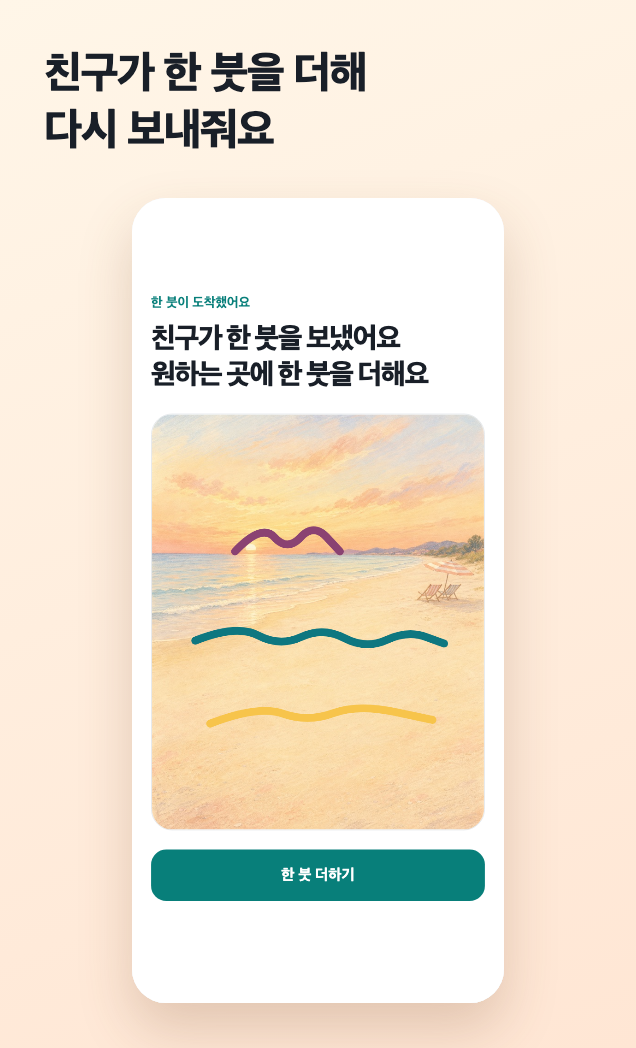
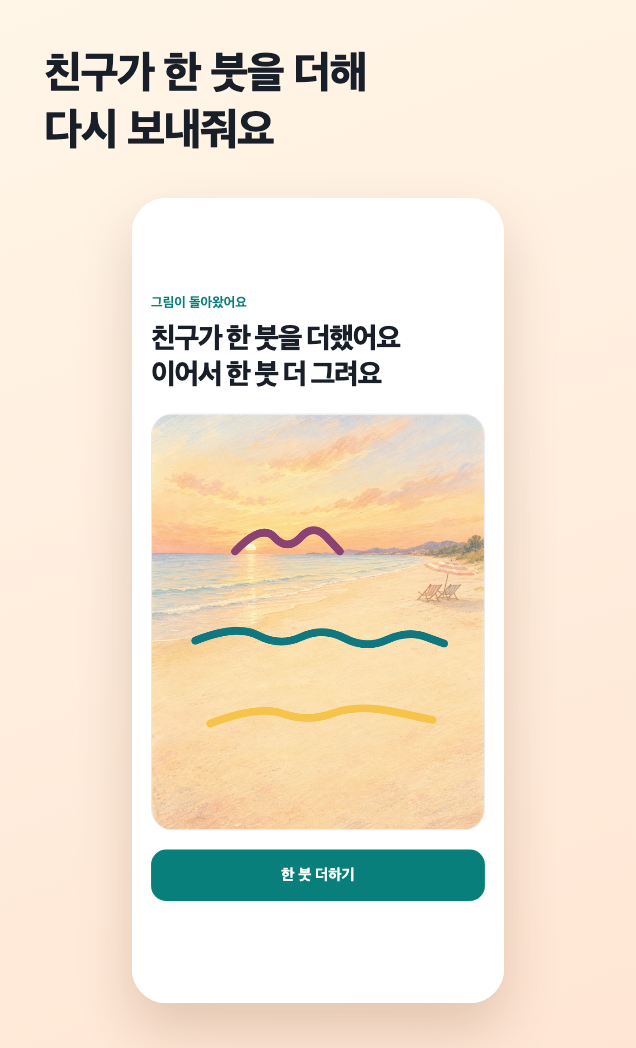
chore: verify response times and pin the third screenshot
비게임 체크리스트가 반응 2초 이상 지연을 금지한다. 미검증으로 남아
있어서 프로덕션 번들로 쟀다. 진입에서 첫 화면까지 296ms, 화면 전환
7ms, 240점을 흘리며 그리는 동안 5.9ms, 저장에서 링크 생성까지 1.9ms,
12붓짜리 1688자 링크를 여는 데 48ms다. 실기기는 더 느리므로 거기서
다시 잰다.

세 번째 스크린샷이 캡처 순서에 따라 달라지고 있었다. 두 번째 캡처가
저장소에 남긴 그림 때문에 우연히 `그림이 돌아왔어요`로 찍혔다.
프로필을 비우고 다시 돌리면 다른 화면이 나온다.

돌아온 순간이 이 제품의 보상이라 그 화면을 쓰되, 우연이 아니라
명시적으로 만든다. 캡처 소스가 조상 그림을 직접 심는다. 이제 순서와
무관하게 같은 결과가 나온다.

두 번째 스크린샷에는 새로 붙인 돌려주기 귀띔이 함께 찍혔다.

Changed region(s): [[0.239, 0.3053, 0.6871, 0.3664], [0.239, 0.2748, 0.3884, 0.3053]]

diff --git a/store/screenshot-3.source.html b/store/screenshot-3.source.html
@@ -1,15 +1,52 @@
 <!doctype html><meta charset="utf-8">
 <title>한 줄 여름 스크린샷 3</title>
 <!--
-  받은 그림 화면. 세 사람의 붓이 쌓인 링크로 들어온 상태다.
-  이력·분기·완성 판정을 노출하지 않는다는 기준이 화면에 보여야 한다.
+  그림이 돌아온 화면. 내가 보낸 그림에 친구가 한 붓을 더해 돌려준
+  상태다. 이 제품의 재방문 경로이자 보상 순간이라 마지막 장에 둔다.
+
+  돌아온 그림으로 보이려면 이 기기에 조상 그림이 남아 있어야 한다
+  (`src/lineage.js`). 캡처 순서에 기대지 않도록 여기서 직접 심는다.
+  심지 않으면 `친구가 한 붓을 보냈어요`로 나온다.
 -->
 <link rel="stylesheet" href="./screenshot.css" />
 
 <h1 class="caption">친구가 한 붓을 더해<br />다시 보내줘요</h1>
-<div class="frame">
-  <iframe
-    title="받은 그림 화면"
-    src="/?d=BgACAwIHggGhBPoBT4QCboQCX4QCbPoBW9wBQAQF-gHKAqABhwGcAYgBngGHAZ4BiAEDBa8B6QWiAlmsAlSsAlfCA0w"
-  ></iframe>
-</div>
+<div class="frame"><iframe id="app" title="돌아온 그림 화면"></iframe></div>
+
+<script>
+  // 앱과 같은 출처라 앱이 읽는 저장소에 그대로 쓴다. 캡처 전용이다.
+  const 조상 = [
+    {
+      version: 6,
+      id: "shot-root",
+      rootId: "shot-root",
+      parentId: null,
+      palette: 2,
+      prompt: 0,
+      strokes: [
+        {
+          id: "shot-s1",
+          actor: "A",
+          name: "나",
+          color: 2,
+          points: [
+            [130, 545],
+            [255, 505],
+            [385, 560],
+            [515, 512],
+            [645, 566],
+            [770, 520],
+            [880, 552],
+          ],
+        },
+      ],
+      finished: false,
+      createdAt: 1785000000000,
+    },
+  ];
+  localStorage.setItem("one-line-summer-nodes-v6", JSON.stringify(조상));
+
+  // 저장소를 채운 뒤에 앱을 띄운다.
+  document.querySelector("#app").src =
+    "/?d=BgACAwIHggGhBPoBT4QCboQCX4QCbPoBW9wBQAQF-gHKAqABhwGcAYgBngGHAZ4BiAEDBa8B6QWiAlmsAlSsAlfCA0w";
+</script>

diff --git a/docs/TEST-SCRIPT.md b/docs/TEST-SCRIPT.md
@@ -96,7 +96,30 @@ npm test
 - [ ] 숨긴 화면의 버튼·라디오에 Tab으로 닿지 않는다.
 - [ ] `?motion=reduce`에서 반복 펄스와 부드러운 스크롤이 억제된다.
 
-## 5. 레이아웃
+## 5. 반응 속도
+
+비게임 체크리스트가 반응 2초 이상 지연을 금지한다.
+
+- [ ] 진입에서 첫 화면이 보이기까지 2초 안이다.
+- [ ] 화면 전환이 즉시 일어난다.
+- [ ] 붓을 길게 그려도 선이 손가락을 따라온다.
+- [ ] `친구에게 토스하기`를 누르면 바로 반응한다.
+- [ ] 12붓짜리 링크를 열어도 그림이 바로 보인다.
+
+### 측정값 (2026-07-27, 데스크톱 프로덕션 번들)
+
+| 구간 | 측정 |
+| --- | --- |
+| 진입 → 첫 화면 | 296ms |
+| 화면 전환 | 7~8ms |
+| 그리는 중 240점 처리 | 5.9ms |
+| 저장 → 링크 생성 | 1.9ms |
+| 12붓 링크 열기 (1,688자) | 48ms |
+| JS+CSS 합계 | 55.9KB |
+
+실기기는 더 느리다. 여유가 크지만 실기기에서 다시 잰다.
+
+## 6. 레이아웃
 
 - [ ] 390×844에서 가로 스크롤이 없다.
 - [ ] 360×740에서 받은 그림과 `한 붓 더하기` CTA가 한 화면에 보인다.
@@ -108,7 +131,7 @@ npm test
 - [ ] 화면 전환 뒤 내부 스크롤이 0으로 돌아간다.
 - [ ] 최소 터치 영역이 44px다.
 
-## 6. 정적 검사
+## 7. 정적 검사
 
 ```bash
 npm test
@@ -121,7 +144,7 @@ git diff --check
 - [ ] 콘솔 warn 0건
 - [ ] 타이밍·점수·순위·재화 코드 없음
 
-## 7. 토스 번들과 딥링크
+## 8. 토스 번들과 딥링크
 
 ```bash
 npx ait build

diff --git a/store/README.md b/store/README.md
@@ -14,7 +14,7 @@
 | 썸네일 | 1932×828 | `thumbnail-1932x828.png` |
 | 스크린샷 1 · 홈 | 636×1048 | `screenshot-1-home.png` |
 | 스크린샷 2 · 그리기 | 636×1048 | `screenshot-2-draw.png` |
-| 스크린샷 3 · 받은 그림 | 636×1048 | `screenshot-3-received.png` |
+| 스크린샷 3 · 돌아온 그림 | 636×1048 | `screenshot-3-received.png` |
 
 규격은 2026-07-26 콘솔 가이드 기준이다. 로고는 투명 배경이 금지고,
 세로 스크린샷은 최소 3장이다. **등록 직전에 콘솔에서 다시 확인한다.**
@@ -50,12 +50,18 @@
 
 ### 스크린샷 순서
 
-홈 → 그리기 → 받은 그림 순서로, 설명 없이도
+홈 → 그리기 → 돌아온 그림 순서로, 설명 없이도
 `한 붓 그리면 링크로 넘어가고, 친구가 한 붓 더해 돌아온다`는 순환이
 읽히게 배열했다.
 
 두 번째 장이 가장 중요하다. 한 붓을 그린 직후 `친구에게 토스하기`가
 살아 있는 상태이고, 이 제품이 요구하는 유일한 다음 행동이 거기 있다.
+
+세 번째 장은 돌아온 순간이다. 재방문 경로이자 이 제품의 보상이라
+마지막에 둔다. 돌아온 그림으로 보이려면 기기에 조상 그림이 있어야
+하는데(`src/lineage.js`), 캡처 순서에 기대지 않도록
+`screenshot-3.source.html`이 저장소를 직접 심는다. 심지 않으면
+`친구가 한 붓을 보냈어요`로 나온다.
 
 ### 캡션
 
